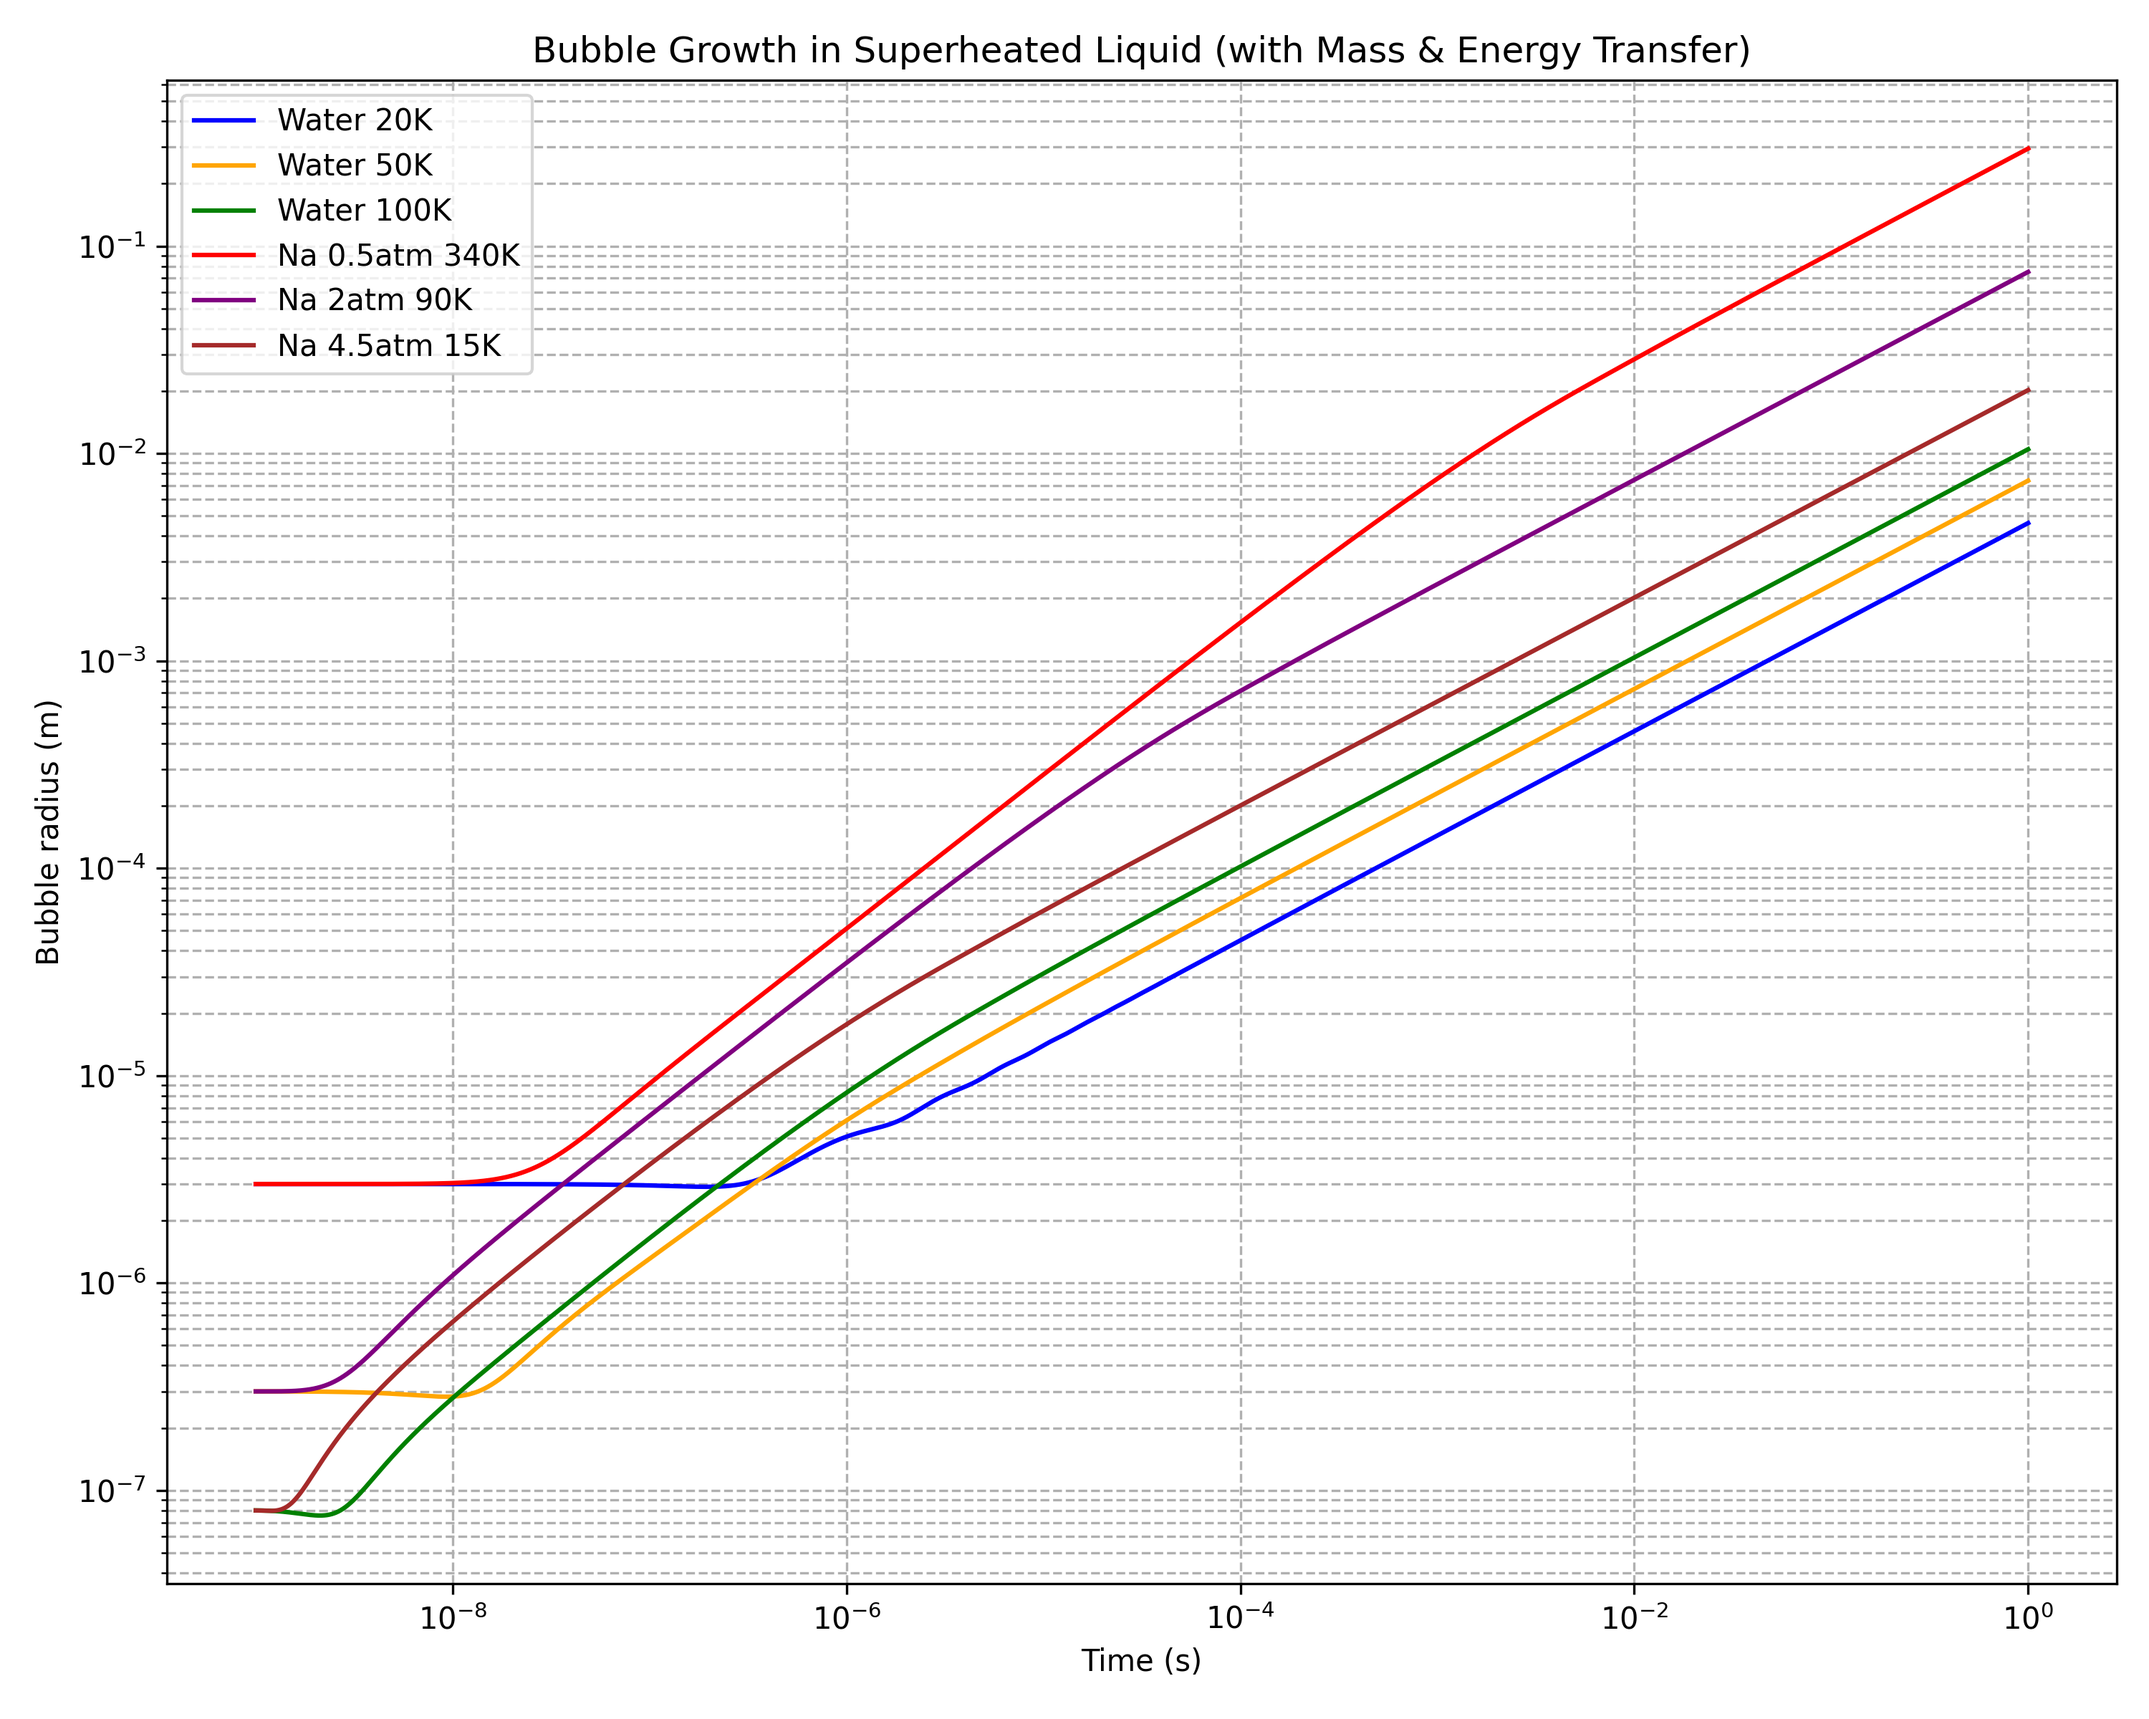
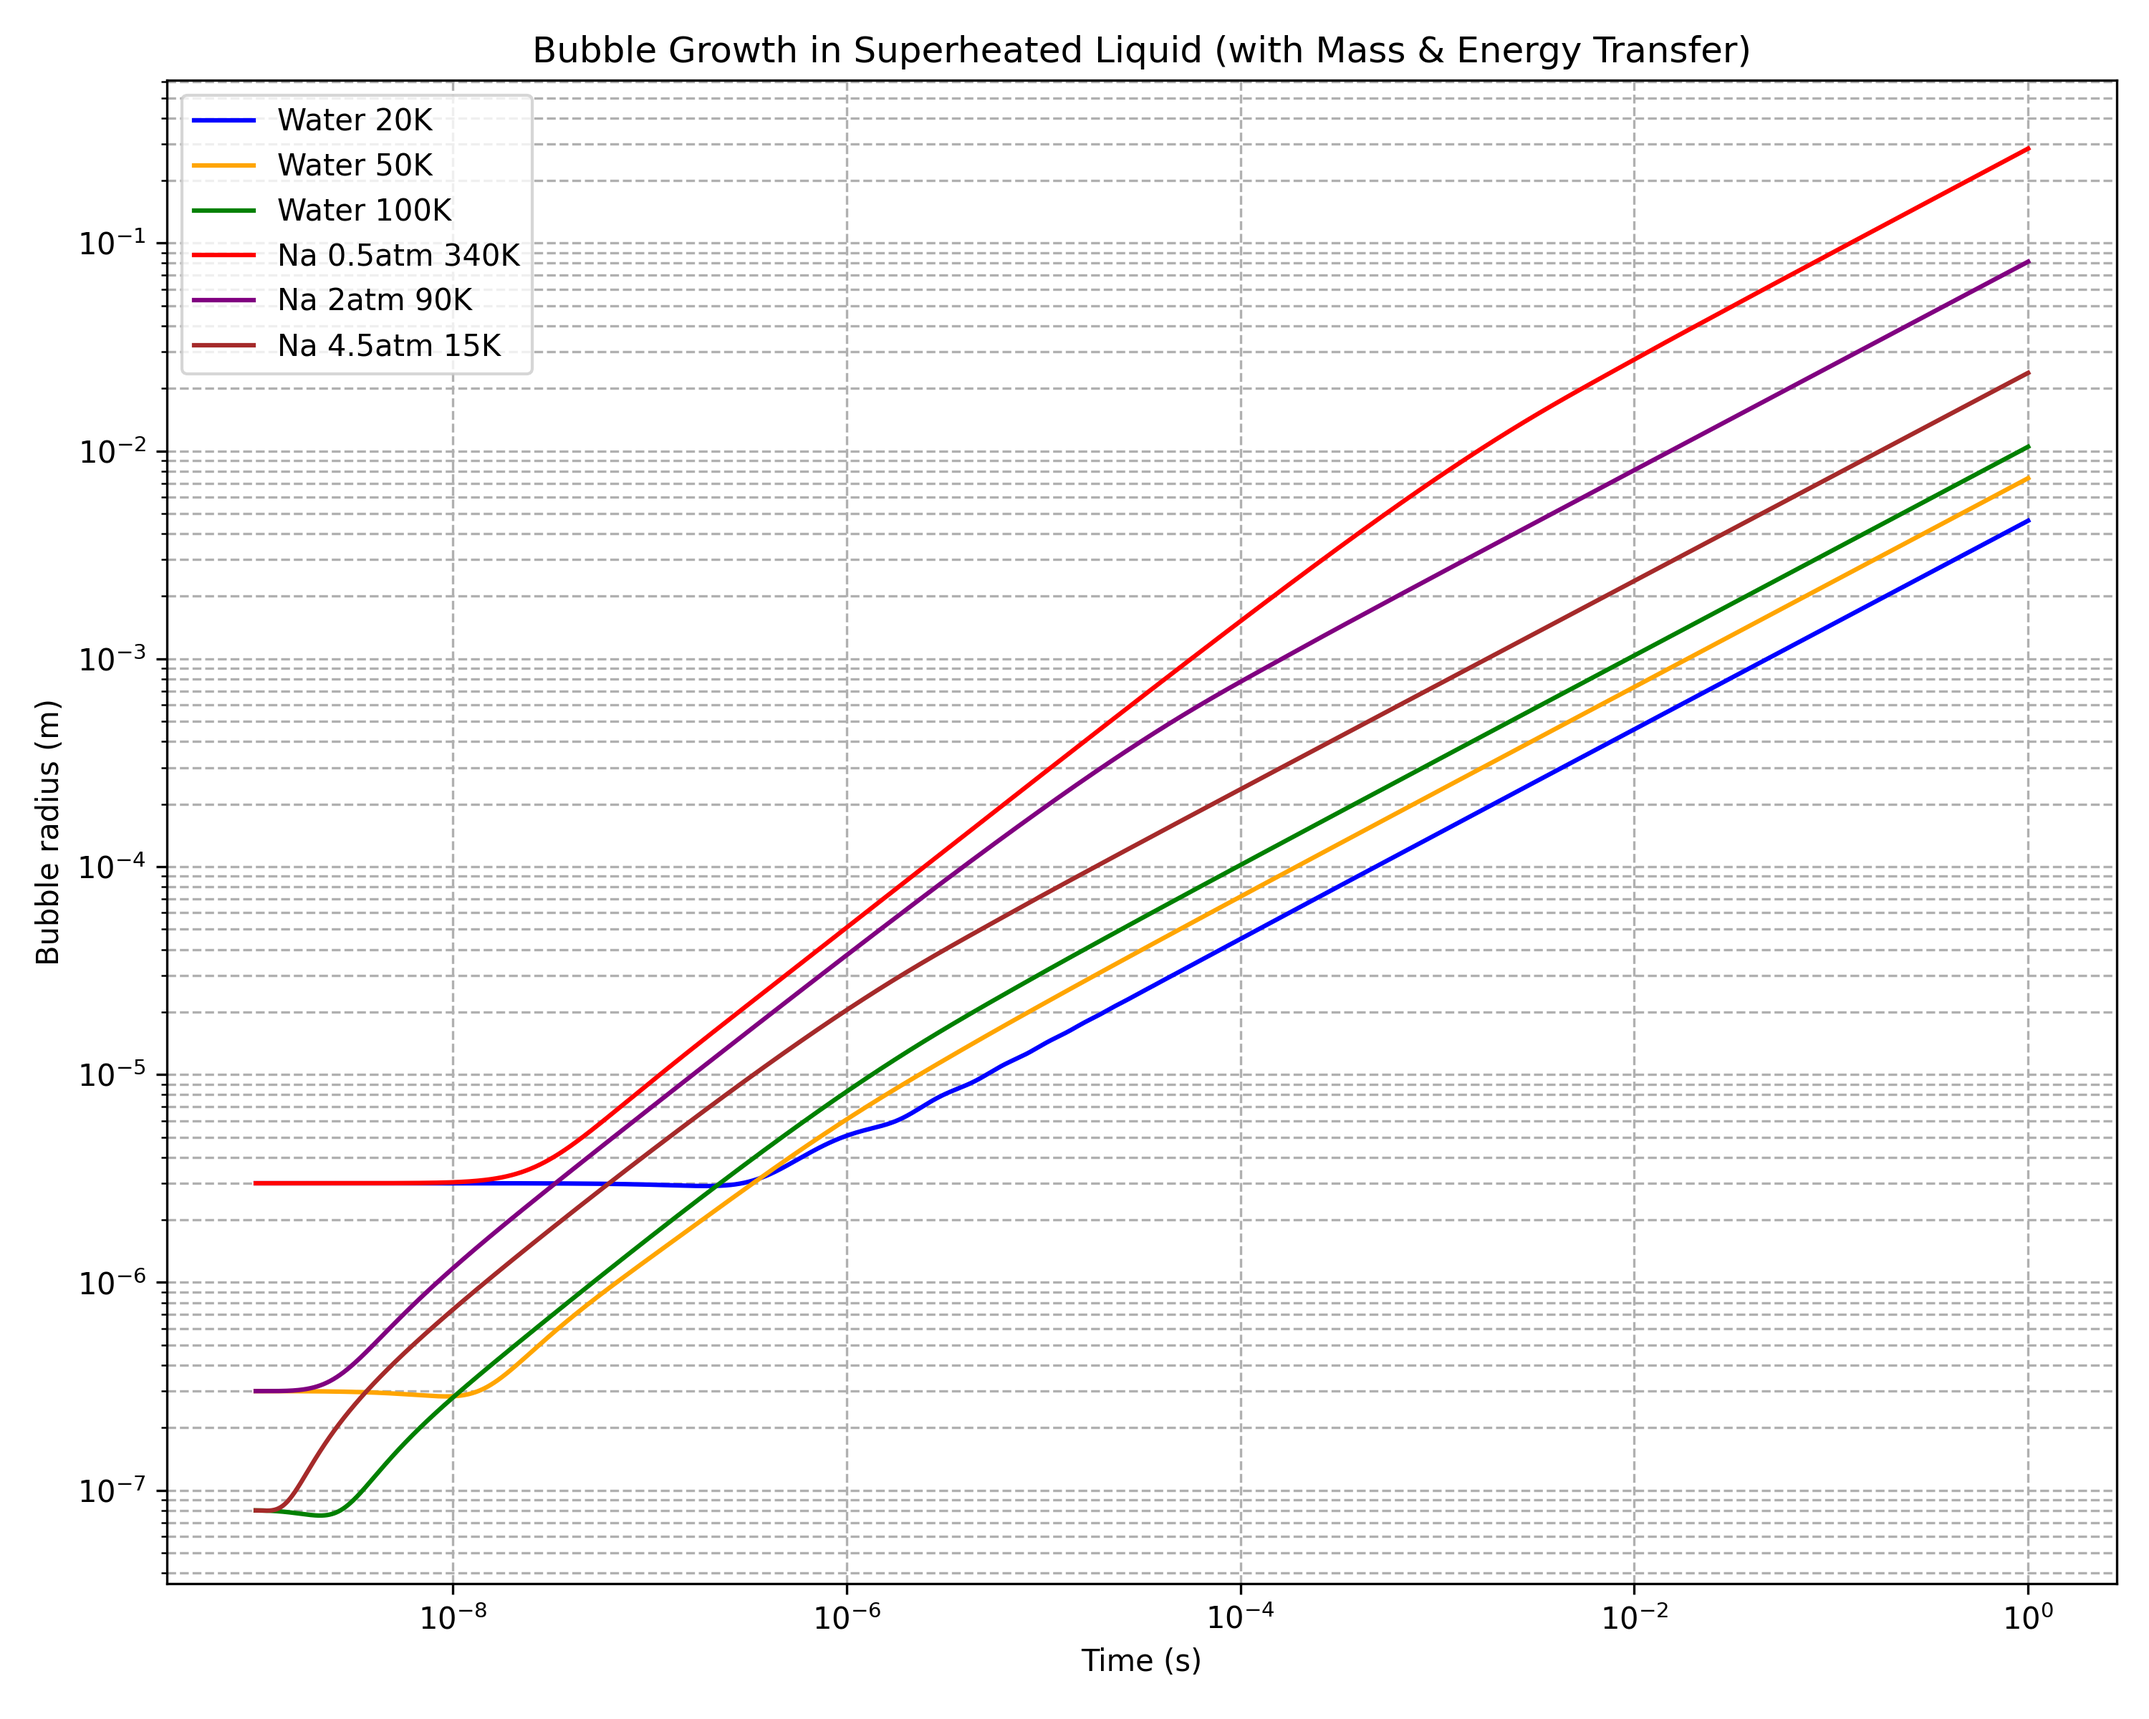
saving here w properties from sodium table

diff --git a/final.py b/final.py
@@ -32,25 +32,65 @@ fluids = {
     },
     'sodium': {
         'cases': [
-            {'name': 'Na 0.5atm 340K', 'p_inf': 0.5*1.013e5, 'Delta_T': 340, 'color': 'red'},
-            {'name': 'Na 2atm 90K', 'p_inf': 2*1.013e5, 'Delta_T': 90, 'color': 'purple'},
-            {'name': 'Na 4.5atm 15K', 'p_inf': 4.5*1.013e5, 'Delta_T': 15, 'color': 'brown'}
+            {
+                'name': 'Na 0.5atm 340K', 
+                'p_inf': 0.5*1.013e5, 
+                'Delta_T': 340, 
+                'color': 'red',
+                # Pressure-specific properties for 0.5 atm
+                'properties': {
+                    'rho_l': 756,          # liquid sodium density (kg/m³) at 0.5 atm
+                    'c_l': 1261,           # specific heat capacity (J/kg/K) at 0.5 atm
+                    'lambda_l': 60,        # thermal conductivity (W/m/K) at 0.5 atm
+                    'L': 4e6,              # latent heat (J/kg) at 0.5 atm - will use interpolation
+                    'R_gas': 361.5,        # gas constant of sodium vapor (J/kg/K)
+                    'sigma': 0.16,         # surface tension (N/m) at 0.5 atm
+                    'eta_l': 0,            # dynamic viscosity (Pa.s)
+                    'T_sat': 1100,         # saturation temperature (K) at 0.5 atm
+                    'c_v': 900,            # specific heat at constant volume (J/kg/K)
+                    'beta': 1000           # thermal enhancement factor (assumed)
+                }
+            },
+            {
+                'name': 'Na 2atm 90K', 
+                'p_inf': 2*1.013e5, 
+                'Delta_T': 90, 
+                'color': 'purple',
+                # Pressure-specific properties for 2 atm
+                'properties': {
+                    'rho_l': 719,          # liquid sodium density (kg/m³) at 2 atm
+                    'c_l': 1292,           # specific heat capacity (J/kg/K) at 2 atm
+                    'lambda_l': 62,        # thermal conductivity (W/m/K) at 2 atm
+                    'L': 4.1e6,            # latent heat (J/kg) at 2 atm - will use interpolation
+                    'R_gas': 361.5,        # gas constant of sodium vapor (J/kg/K)
+                    'sigma': 0.158,        # surface tension (N/m) at 2 atm
+                    'eta_l': 0,            # dynamic viscosity (Pa.s)
+                    'T_sat': 1250,         # saturation temperature (K) at 2 atm
+                    'c_v': 900,            # specific heat at constant volume (J/kg/K)
+                    'beta': 1000           # thermal enhancement factor (assumed)
+                }
+            },
+            {
+                'name': 'Na 4.5atm 15K', 
+                'p_inf': 4.5*1.013e5, 
+                'Delta_T': 15, 
+                'color': 'brown',
+                # Pressure-specific properties for 4.5 atm
+                'properties': {
+                    'rho_l': 693,          # liquid sodium density (kg/m³) at 4.5 atm
+                    'c_l': 1340,           # specific heat capacity (J/kg/K) at 4.5 atm
+                    'lambda_l': 64,        # thermal conductivity (W/m/K) at 4.5 atm
+                    'L': 4.2e6,            # latent heat (J/kg) at 4.5 atm - will use interpolation
+                    'R_gas': 361.5,        # gas constant of sodium vapor (J/kg/K)
+                    'sigma': 0.155,        # surface tension (N/m) at 4.5 atm
+                    'eta_l': 0,            # dynamic viscosity (Pa.s)
+                    'T_sat': 1350,         # saturation temperature (K) at 4.5 atm
+                    'c_v': 900,            # specific heat at constant volume (J/kg/K)
+                    'beta': 1000           # thermal enhancement factor (assumed)
+                }
+            }
         ],
-        'properties': {
-            # You'll need to update these with actual sodium properties
-            'rho_l': 800,          # placeholder for liquid sodium density (kg/m³)
-            'c_l': 1300,           # placeholder for specific heat capacity (J/kg/K)
-            'lambda_l': 60,        # placeholder for thermal conductivity (W/m/K)
-            'L': 4e6,              # placeholder for latent heat (J/kg)
-            'R_gas': 361.5,        # placeholder for gas constant of sodium vapor (J/kg/K)
-            'sigma': 0.16,         # placeholder for surface tension (N/m)
-            'eta_l': 0,            # placeholder for dynamic viscosity (Pa.s)
-            'T_sat': 1156,         # placeholder for saturation temperature (K)
-            'c_v': 900,            # placeholder for specific heat at constant volume (J/kg/K)
-            'beta': 1000           # thermal enhancement factor (assumed)
-        },
         'initial_radii': {
-            # Placeholders for sodium initial radii (you'll need to adjust these)
             340: 3e-6,
             90: 3e-7,
             15: 8e-8
@@ -82,7 +122,6 @@ water_latent_heat_interp = interp1d(
     kind='linear', bounds_error=False, fill_value=(water_latent_heat_kJ_per_kg[0]*1000, 0)
 )
 
-# TODO: Add sodium latent heat interpolation data
 # This is a placeholder - you'll need to add actual sodium data
 sodium_temperature_K = np.array([800, 900, 1000, 1100, 1156, 1200, 1300, 1400])
 sodium_latent_heat_kJ_per_kg = np.array([4500, 4400, 4300, 4200, 4100, 4000, 3800, 3600])
@@ -179,7 +218,6 @@ def run_simulation_and_plot(selected_fluids=['water']):
     for fluid_type in selected_fluids:
         fluid = fluids[fluid_type]
         cases = fluid['cases']
-        properties = fluid['properties']
         initial_radii = fluid['initial_radii']
         
         # Process each case for the current fluid
@@ -187,7 +225,19 @@ def run_simulation_and_plot(selected_fluids=['water']):
             # Set up parameters for this case
             p_inf = case['p_inf']
             Delta_T = case['Delta_T']
-            T_sat = properties['T_sat']
+            
+            # Get properties based on fluid type
+            if fluid_type == 'water':
+                # For water, use the global properties
+                properties = fluid['properties'].copy()
+                properties['p_inf'] = p_inf  # Update pressure
+                T_sat = properties['T_sat']
+            else:  # for sodium
+                # For sodium, each case has its own properties
+                properties = case['properties'].copy()
+                properties['p_inf'] = p_inf  # Ensure pressure is set
+                T_sat = properties['T_sat']
+            
             T_inf = T_sat + Delta_T
             color = case['color']
             name = case['name']
@@ -201,16 +251,12 @@ def run_simulation_and_plot(selected_fluids=['water']):
             T_s0 = T_sat
             rho_v0 = p_inf / (properties['R_gas'] * T_sat)  # initial vapor density
             
-            # Copy properties and update pressure for this case
-            case_properties = properties.copy()
-            case_properties['p_inf'] = p_inf
-            
             # Initial conditions vector: [R, R_dot, rho_v, T_s]
             y0 = [R0, R_dot0, rho_v0, T_s0]
             
             # Solve the ODE system
             sol = solve_ivp(
-                lambda t, y: bubble_odes(t, y, fluid_type, case_properties, T_inf), 
+                lambda t, y: bubble_odes(t, y, fluid_type, properties, T_inf), 
                 t_span, y0, t_eval=t_eval, method='Radau', rtol=1e-6, atol=1e-9
             )
             
